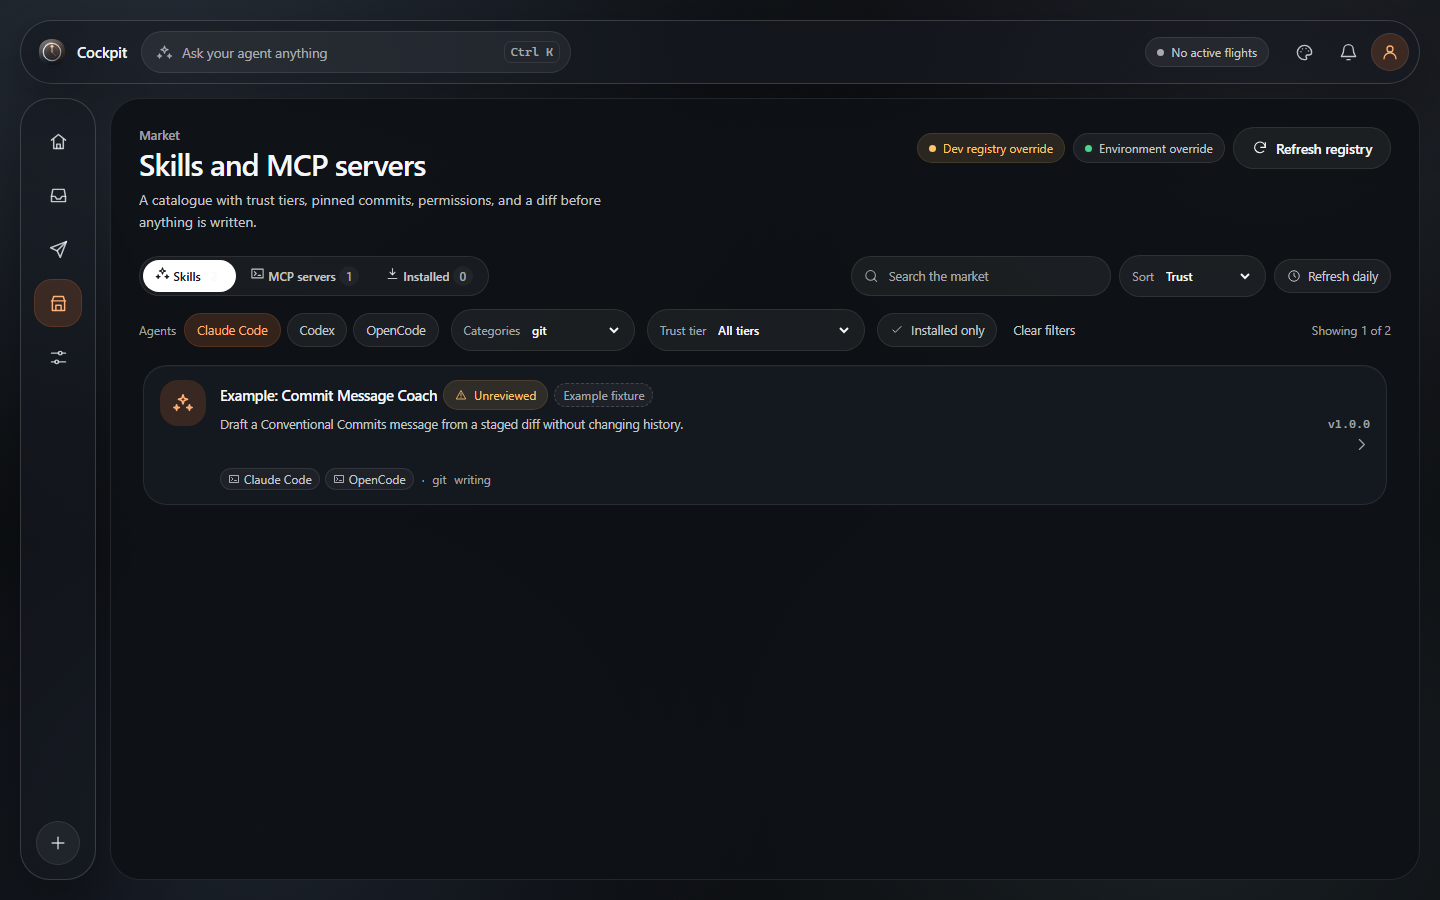
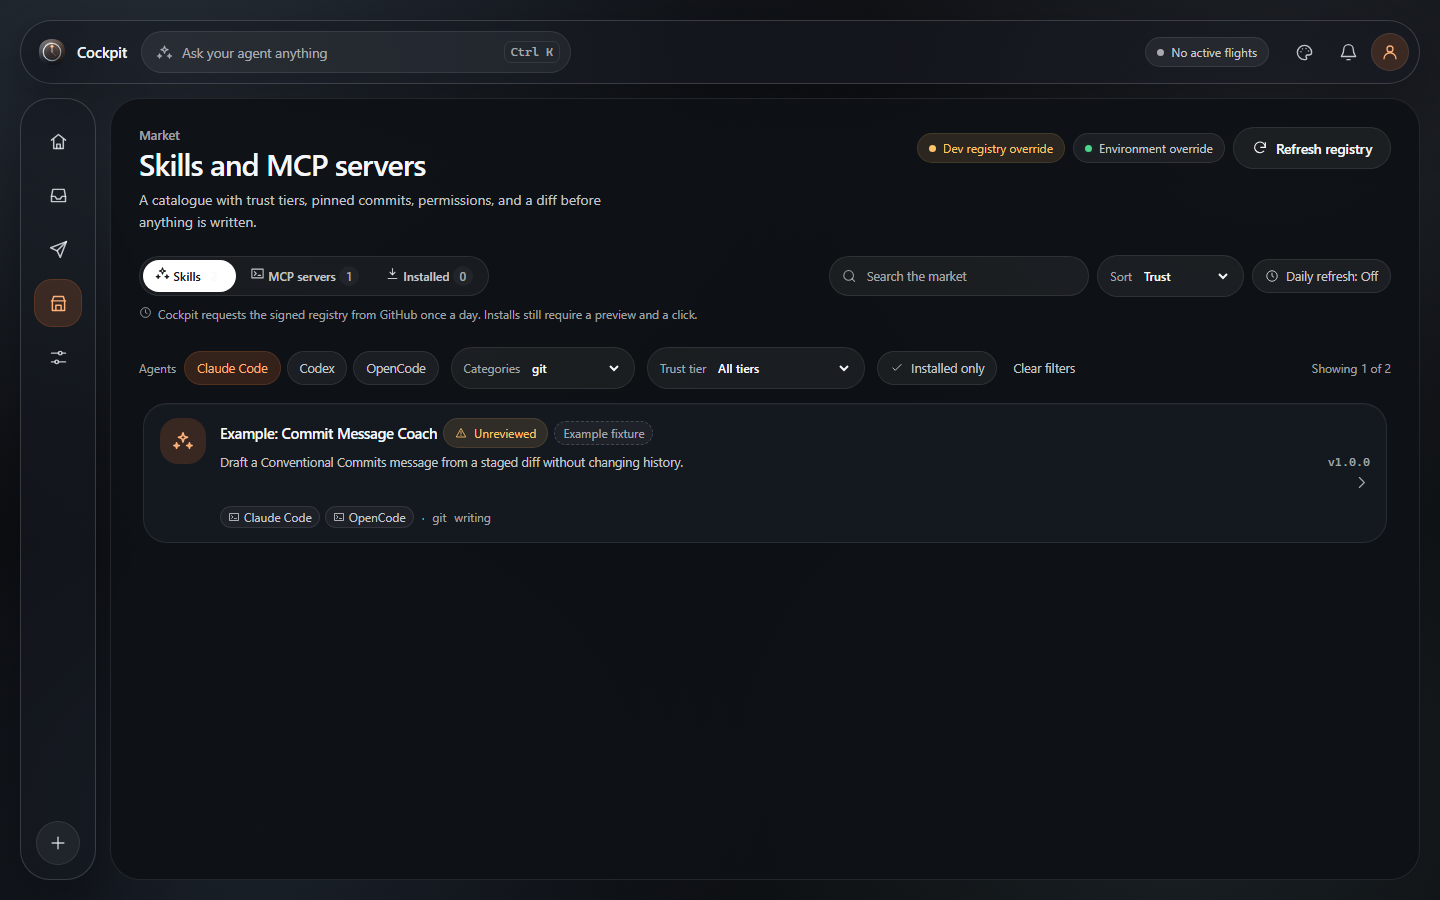
fix: show market refresh state and trim installed tab chrome

diff --git a/ui/src/lib/screens/MarketScreen.svelte b/ui/src/lib/screens/MarketScreen.svelte
@@ -702,19 +702,17 @@
           type="button"
           aria-pressed={settings.autoRefresh}
           title={t('market.autoRefreshNote')}
+          data-testid="market-daily-refresh"
           onclick={toggleAutoRefresh}
         >
           <Icon name="clock" size={14} />
-          {t('market.autoRefresh')}
+          {t(settings.autoRefresh ? 'market.dailyRefreshOn' : 'market.dailyRefreshOff')}
         </button>
       </div>
-    {:else}
-      <div class="market-toolbar__right">
-        <button class="btn btn--ghost btn--small" type="button" onclick={loadInstalled}>
-          <Icon name="refresh" size={15} />
-          {t('common.retry')}
-        </button>
-      </div>
+      <p class="market-refresh-note" data-testid="market-refresh-note">
+        <Icon name="clock" size={13} />
+        {t('market.autoRefreshNote')}
+      </p>
     {/if}
   </div>
 
@@ -872,7 +870,6 @@
   {:else}
     <section class="market-installed-head">
       <div>
-        <h2>{t('market.installedTabTitle')}</h2>
         <p>{t('market.installedTabBody')}</p>
       </div>
       <span class="status-pill"><Icon name="shield" size={13} /> {t('market.hostOnly')}</span>
@@ -884,6 +881,14 @@
         <div>
           <strong>{t('market.installedError')}</strong>
           <p>{installedError}</p>
+          <button
+            class="btn btn--ghost btn--small market-banner__action"
+            type="button"
+            onclick={loadInstalled}
+          >
+            <Icon name="refresh" size={15} />
+            {t('common.retry')}
+          </button>
         </div>
       </section>
     {/if}

diff --git a/ui/tests/e2e/market.spec.ts b/ui/tests/e2e/market.spec.ts
@@ -84,6 +84,17 @@ test('catalogue, instant search, filters and detail', async ({ page }) => {
   await shot(page, 'market-detail.png');
 });
 
+test('daily refresh shows its state and explains the GitHub request', async ({ page }) => {
+  await openMarket(page);
+  const toggle = page.getByTestId('market-daily-refresh');
+  await expect(toggle).toHaveText(/Daily refresh: Off/);
+  await expect(page.getByTestId('market-refresh-note')).toContainText('GitHub');
+  await toggle.click();
+  await expect(toggle).toHaveText(/Daily refresh: On/);
+  await toggle.click();
+  await expect(toggle).toHaveText(/Daily refresh: Off/);
+});
+
 test('skill install preview, installed tab, uninstall and undo', async ({ page }) => {
   await openMarket(page);
   await openDetail(page, SKILL_ID);
@@ -103,6 +114,10 @@ test('skill install preview, installed tab, uninstall and undo', async ({ page }
 
   await page.getByRole('button', { name: 'Done' }).click();
   await page.getByTestId('market-tab-installed').click();
+  await expect(
+    page.getByRole('heading', { name: 'Installed skills and MCP servers' }),
+  ).toHaveCount(0);
+  await expect(page.getByRole('button', { name: 'Retry' })).toHaveCount(0);
   const installed = page
     .locator('[data-testid^="market-installed-"]')
     .filter({ hasText: SKILL_NAME });

diff --git a/ui/src/lib/i18n/catalog.ts b/ui/src/lib/i18n/catalog.ts
@@ -309,8 +309,9 @@ const en = {
   'market.refreshing': 'Refreshing',
   'market.refreshed': 'Registry refreshed.',
   'market.refreshFailed': 'The registry could not be refreshed.',
-  'market.autoRefresh': 'Refresh daily',
-  'market.autoRefreshNote': 'Cockpit checks the signed registry once a day. Installs still require a preview and a click.',
+  'market.autoRefreshNote': 'Cockpit requests the signed registry from GitHub once a day. Installs still require a preview and a click.',
+  'market.dailyRefreshOn': 'Daily refresh: On',
+  'market.dailyRefreshOff': 'Daily refresh: Off',
   'market.autoRefreshOn': 'Daily refresh on.',
   'market.autoRefreshOff': 'Daily refresh off.',
   'market.search': 'Search the market',
@@ -426,7 +427,6 @@ const en = {
   'market.uninstallSuccess': 'Uninstalled {name}',
   'market.uninstallSuccessBody': 'Cockpit restored its backup where possible. You can undo this removal.',
   'market.uninstallFailed': 'The uninstall did not finish.',
-  'market.installedTabTitle': 'Installed skills and MCP servers',
   'market.installedTabBody': 'Every entry here was installed by Cockpit and can be undone.',
   'market.stateInstalled': 'Installed',
   'market.stateUninstalled': 'Uninstalled',

diff --git a/ui/src/app.css b/ui/src/app.css
@@ -6638,6 +6638,10 @@ html[data-glass-reason='reduced-transparency'] .panel {
   line-height: 1.55;
 }
 
+.market-banner__action {
+  margin-top: 8px;
+}
+
 .market-banner--danger {
   border-color: var(--danger-soft);
   background: var(--danger-soft);
@@ -6760,6 +6764,21 @@ html[data-glass-reason='reduced-transparency'] .panel {
   color: var(--text-faint);
   font-size: max(var(--text-min), calc(11.5px * var(--font-scale)));
   font-variant-numeric: tabular-nums;
+}
+
+.market-refresh-note {
+  display: flex;
+  align-items: flex-start;
+  gap: 6px;
+  margin: -2px 0 12px;
+  color: var(--text-faint);
+  font-size: max(var(--text-min), calc(11.5px * var(--font-scale)));
+  line-height: 1.5;
+}
+
+.market-refresh-note svg {
+  flex: 0 0 auto;
+  margin-top: 1px;
 }
 
 .market-scroll {
